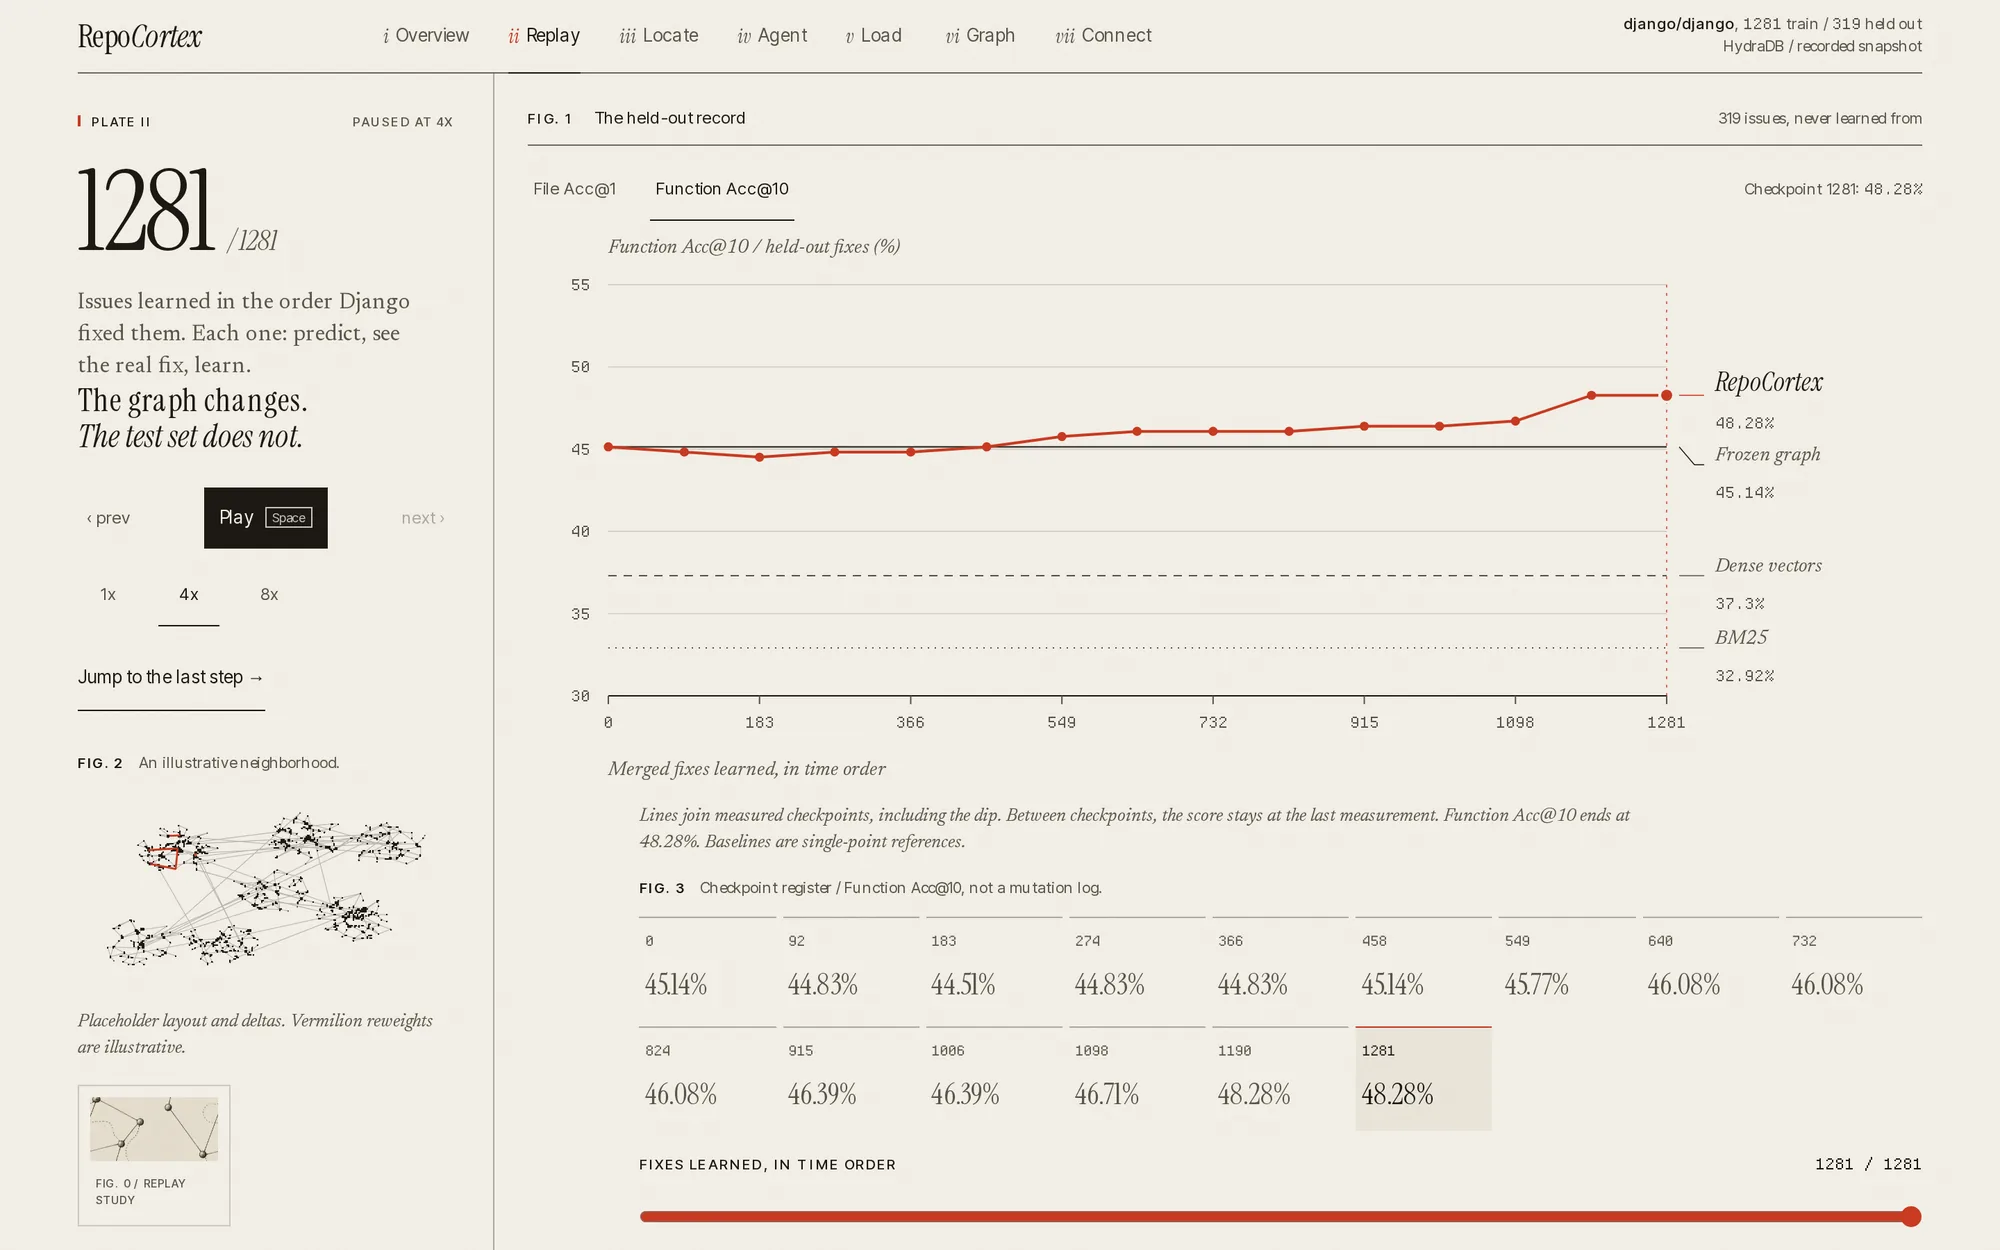
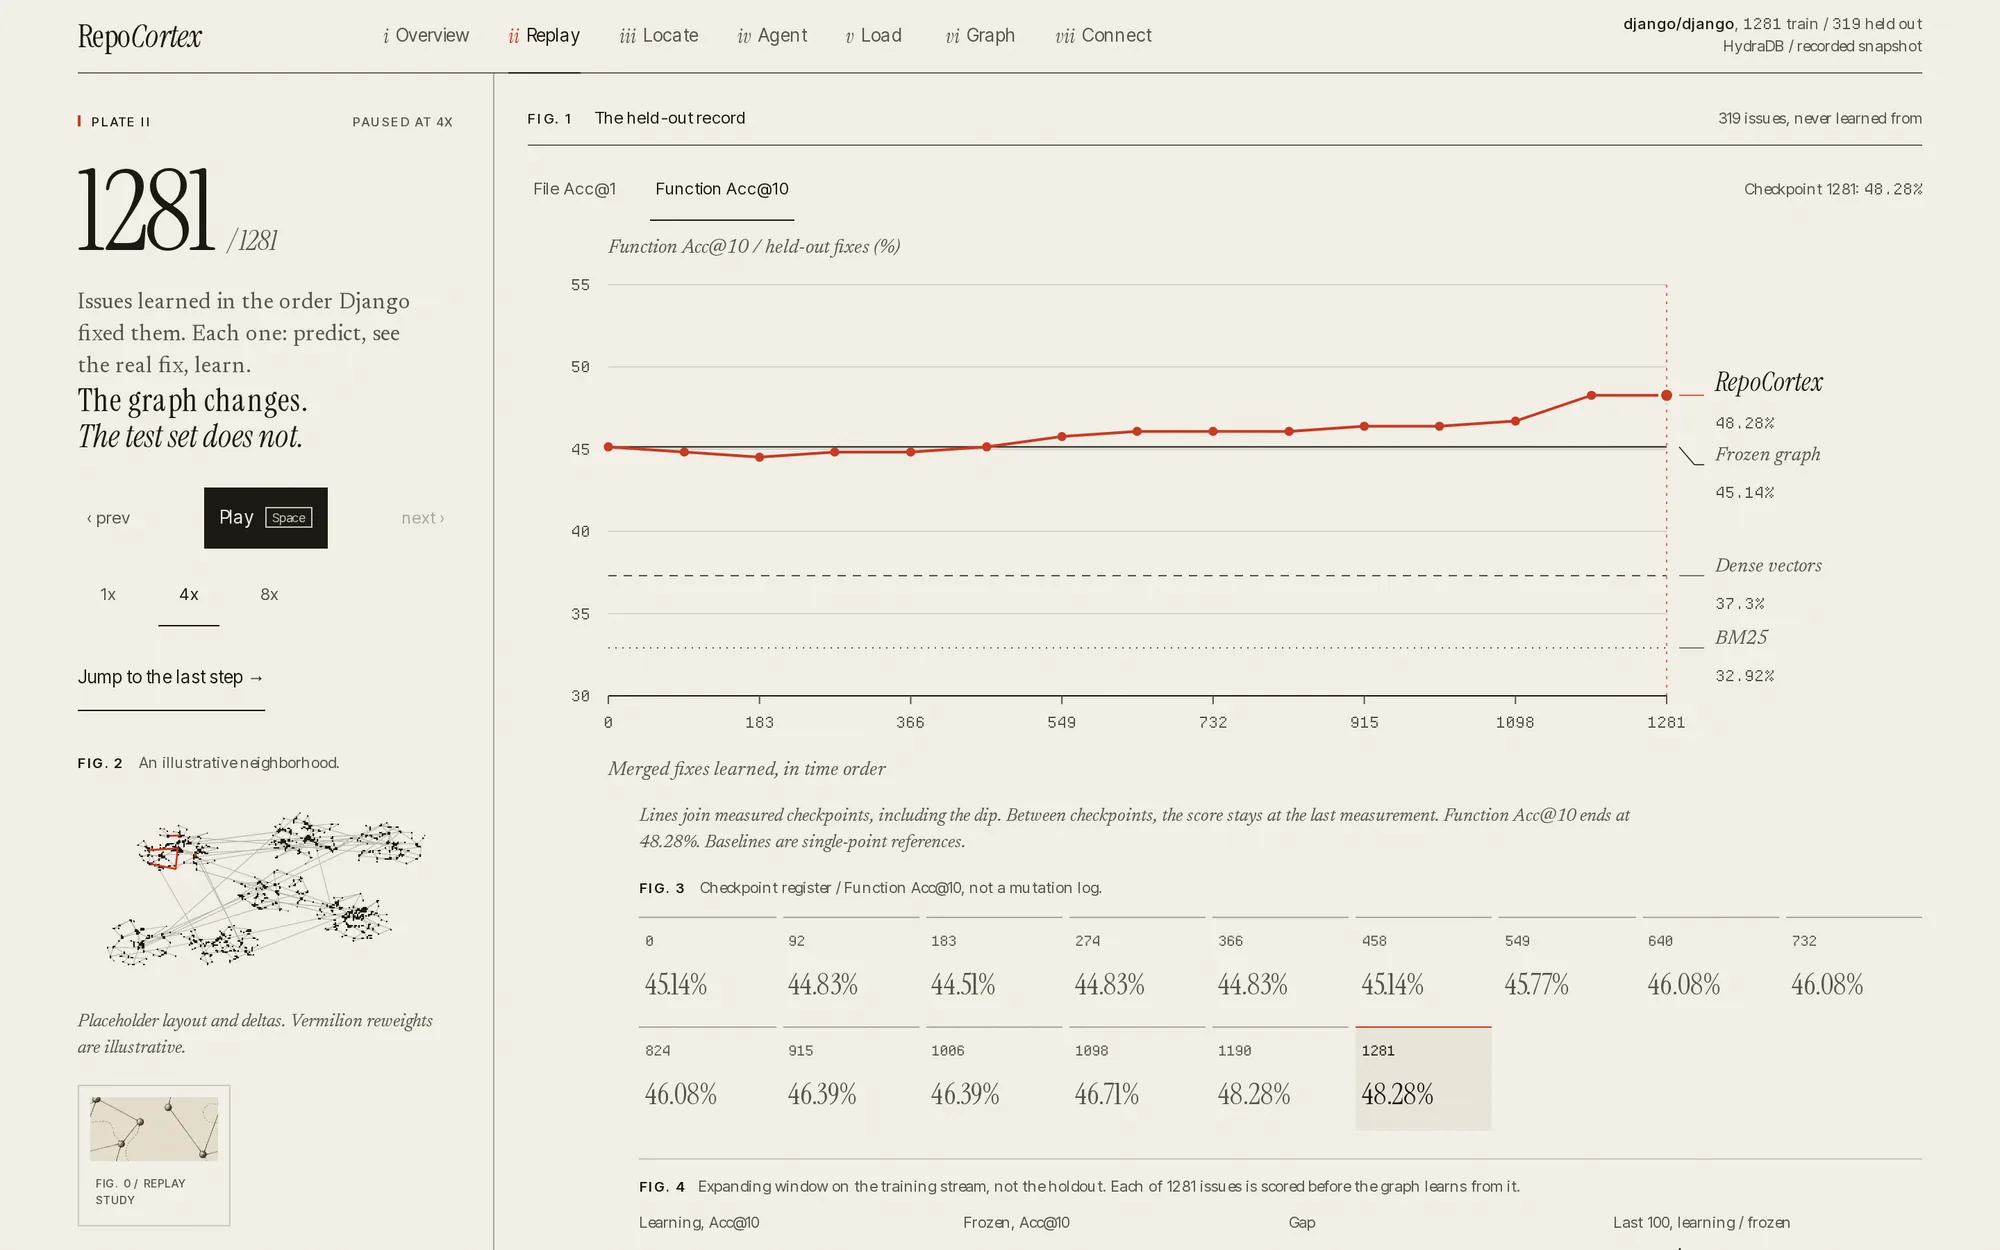
add the validation and expanding window curves to the readme

Changed region(s): [[0.31, 0.9048, 0.961, 0.9984], [0.899, 0.9048, 0.961, 0.936]]

diff --git a/README.md b/README.md
@@ -32,7 +32,16 @@ The same held-out set, scored at every learning checkpoint of the replay:
 | fn Acc@10 | 0.451 | 0.448 | 0.445 | 0.448 | 0.448 | 0.451 | 0.458 | 0.461 | 0.461 | 0.461 | 0.464 | 0.464 | 0.467 | 0.483 | 0.483 |
 | MRR | 0.402 | 0.405 | 0.410 | 0.409 | 0.406 | 0.403 | 0.410 | 0.408 | 0.408 | 0.412 | 0.414 | 0.415 | 0.412 | 0.424 | 0.430 |
 
-These held-out numbers match the previous replay. A search for a stronger memory signal was run first, on the last 256 training issues only, and every change lost, so the holdout was scored once with the same settings.
+These held-out numbers did not move in the latest pass. A search for a stronger memory signal ran first on the training side only, every change lost, and the holdout was scored once with the same settings.
+
+Two curves that rise earlier. **Neither is the holdout**, and they are labeled that way everywhere:
+
+| curve (not the holdout) | start | end | change |
+|---|---:|---:|---:|
+| Validation slice, newest 256 training issues, fn Acc@10 | 0.414 | 0.449 (peak 0.453 at step 879) | +0.035 |
+| Validation slice, MRR | 0.380 | 0.414 | +0.034 |
+| Expanding window, 1281 training issues, fn Acc@10: learning vs frozen | frozen 0.439 | learning 0.472 | +3.4 points |
+| Expanding window, MRR: learning vs frozen | frozen 0.391 | learning 0.424 | +3.3 points |
 
 Coding agent (30 held-out bugs, Claude Sonnet 5.5): **16% fewer input tokens** with the RepoCortex MCP tool available, **27% fewer** when told to call it first, same accuracy.
 
@@ -42,8 +51,8 @@ Coding agent (30 held-out bugs, Claude Sonnet 5.5): **16% fewer input tokens** w
 |---|---|---|
 | Beats a plain vector store | fn Acc@10 **0.483** vs dense **0.373** vs BM25 **0.329**. Paired gap over dense: **+11.0 points** [7.5, 14.4] | [`results/baselines.json`](results/baselines.json) |
 | Learning moves the held-out score | fn Acc@10 0.451 at step 0 to 0.483 after 1281 fixes. Paired lift **+3.1 points** [0.9, 5.6], MRR 0.402 to 0.430 | [`results/curve.json`](results/curve.json), [`results/curve.png`](results/curve.png) |
-| The nearer future rises earlier | Validation Acc@10 0.414 to 0.453 by fit step 879, MRR 0.380 to 0.414. Not the holdout | [`results/curve.png`](results/curve.png), [`results/tuning.json`](results/tuning.json) |
-| Online learning holds up as bugs get harder | Expanding-window gap vs a frozen replay: **+3.4 points** Acc@10 and **+3.3 points** MRR after 1281 training issues | [`results/curve.json`](results/curve.json) |
+| The nearer future rises earlier | Validation fn Acc@10 0.414 to 0.449 (peak 0.453), MRR 0.380 to 0.414. Not the holdout | [`results/curve.json`](results/curve.json), [`results/tuning.json`](results/tuning.json) |
+| Memory holds up as bugs get harder | Expanding window vs a frozen replay: **+3.4 points** fn Acc@10 and **+3.3 points** MRR after 1281 issues. Not the holdout | [`results/curve.json`](results/curve.json) |
 | Agents do less work with it | **16%** fewer input tokens, **27%** when told to call it first, 22% lower cost | [`results/agent_eval/`](results/agent_eval/README.md) |
 | The tool alone is a strong first guess | `locate_bug` top-1 function **0.47** vs the Claude agent's **0.40** (14 vs 12 of 30), under a second, no model call | [`results/agent_eval/tool_only.json`](results/agent_eval/tool_only.json) |
 | It is fast enough to sit in an agent loop | p95 **44 ms**, p50 21 ms, 63 req/s, **0 failures** over 1,251 requests | [`results/loadtest.json`](results/loadtest.json) |
@@ -158,34 +167,32 @@ Storing fixes and reweighting does almost all of the lift. Shortcuts add a littl
 
 ## Where the curve rises
 
-The held-out line above sits on the frozen score until about step 500, then gains about 3 points. That is real, and it is late. Two other curves rise earlier. Neither one is the holdout.
+<img src="results/curve.png" alt="RepoCortex curves: held-out accuracy and MRR by replay step with dense and BM25 baselines, the expanding-window learning and frozen series, and the validation slice" width="900">
 
-**Why a stronger memory weight does not help.** Held-out issues often look like an older ticket and still name a different function. By step 100, 43% of the holdout has a past fix with cosine at least 0.55, and that neighbor shares a gold function 3.5% of the time. At the end of training the nearest fix is right 18.5% of the time, and some neighbor above 0.55 is right 34.5% of the time. Copying the neighbor's functions early mostly copies the wrong function. The full table is [`results/diagnosis.json`](results/diagnosis.json). It was not used to pick settings.
+The held-out line sits on the frozen score until about step 500, then gains about 3 points. That is real, and it is late.
 
-The search scored the newest 256 training issues after replaying only the older 1,025. The rule was fixed first: maximize `0.65 * final validation MRR + 0.35 * midpoint validation MRR`, and keep a change only when that score beats the current one by more than 0.01 without dropping validation Acc@10 by more than 0.02. The grid covered memory weight, similarity threshold, neighbor count, sum versus max, file and module priors, recency, credit decay, earlier shortcuts, and a gate that lets memory rerank only functions the report already ranked highly. The published settings scored 0.407. The nearest challenger scored 0.413. Weight 0.40 dropped validation MRR to about 0.29 to 0.36. Nothing cleared the bar. The log is [`results/tuning.json`](results/tuning.json).
+**Why the curve starts late.** Early on, a held-out bug often looks like an older ticket and still names a different function. By step 100, 42.6% of the holdout already has a past fix with cosine similarity of at least 0.55, but that nearest neighbor shares a gold function only 3.5% of the time. By the end of training the nearest fix is right 18.5% of the time, and some neighbor above 0.55 is right 34.5% of the time. Copying the neighbor's functions early mostly copies the wrong function, so a stronger memory weight hurts before it helps. Source: [`results/diagnosis.json`](results/diagnosis.json). It was not used to pick settings.
 
-**Validation slice, the newest 20% of training.** Not the 319 held-out issues.
+**The settings search.** It replayed the older 1025 training issues and scored the newest 256, never the holdout. The rule was fixed first: maximize `0.65 * final validation MRR + 0.35 * midpoint validation MRR`, and keep a change only if it beats the current score by more than 0.01 without losing more than 0.02 validation Acc@10. The grid covered memory weight, similarity threshold, neighbor count, sum vs max, file and module priors, recency, credit decay, earlier shortcuts, and a rerank-only memory gate. The published settings scored 0.407, the best challenger 0.413. Nothing cleared the bar. Log: [`results/tuning.json`](results/tuning.json).
+
+**Validation slice, the newest 256 training issues. Not the holdout.**
 
 | fit issues | 0 | 146 | 293 | 439 | 586 | 732 | 879 | 1025 |
 |---|---:|---:|---:|---:|---:|---:|---:|---:|
 | fn Acc@10 | 0.414 | 0.418 | 0.418 | 0.426 | 0.434 | 0.445 | 0.453 | 0.449 |
 | MRR | 0.380 | 0.380 | 0.389 | 0.389 | 0.394 | 0.399 | 0.407 | 0.414 |
 
-Acc@10 is up about four points by step 879, then dips 0.4 points. MRR moves from 0.380 to 0.414, with one small dip between step 293 and step 439. This is the bottom row of [`results/curve.png`](results/curve.png).
-
-**Expanding window on the training stream.** Each training issue is scored before the operators see it. The same issues are scored with learning off. Both lines climb over the first few hundred issues, so that early climb is not by itself learning. After that, learning stays up and the frozen line falls.
+**Expanding window on the training stream. Not the holdout.** Each training issue is scored before the operators see it, and the same issues are scored with learning off. Both lines climb over the first few hundred issues, so that early climb is not learning by itself. After that, learning stays up and the frozen line falls.
 
 | issues seen | learning Acc@10 | frozen Acc@10 | learning MRR | frozen MRR |
 |---:|---:|---:|---:|---:|
 | 100 | 0.460 | 0.450 | 0.383 | 0.376 |
-| 400 | 0.500 | 0.482 | 0.434 | 0.411 |
+| 400 | 0.500 | 0.482 | 0.434 | 0.412 |
 | 1281 | 0.472 | 0.439 | 0.424 | 0.391 |
 
-The gap at the end is about +3.4 points of Acc@10 and +3.3 points of MRR. The rolling window of 100 says the same thing: learning scores 0.460 on the first 100 and 0.460 on the last 100, while the frozen ranker falls from 0.450 to 0.410. Later training issues are harder. Memory is what holds the rate.
+The rolling window of 100 says the same thing: learning scores 0.460 on the first 100 and 0.460 on the last 100, while the frozen ranker falls from 0.450 to 0.410. Later issues are harder, and memory is what holds the rate.
 
-**Seen module versus unseen module.** A holdout issue is seen when one of its gold functions sits in a module a training fix already touched. Module means the first two path parts. By step 92, 315 of 319 holdout issues are already in a seen module. Three are still unseen at the end, which is too few to read (Acc@10 0.333 against 0.484 on the other 316). The flat holdout curve is not an unseen-module problem.
-
-Seen file is the split that moves. Membership changes as more files are observed, so this is not one fixed cohort. Acc@10 on issues whose file was already fixed goes from 0.359 at step 92 (145 issues) to 0.456 at step 1281 (296 issues). The unseen-file rate stays high while the count shrinks from 174 to 23, which means the files that remain unseen are ones the frozen ranker already hits.
+**Seen file vs unseen file.** On held-out issues whose file a training fix already touched, fn Acc@10 goes from 0.359 at step 92 (145 issues) to 0.456 at step 1281 (296 issues). Membership grows as files are observed, so this is not one fixed cohort. The unseen-file group shrinks from 174 to 23 issues, and the ones left are mostly files the frozen ranker already hits. Module-level splits say little: 315 of 319 held-out issues are in a seen module by step 92, and only 3 are still unseen at the end.
 
 ## Provenance
 
@@ -239,7 +246,7 @@ Accuracy is about the same with and without the tool. The difference is one bug 
 
 ## Dashboard
 
-The web app in [`web/`](web/) reads `web/public/data/curve.json`, a copy of this run's measured curve. `web/public/data/snapshots.json` is still an illustrative layout fixture, not the replay log. Run it with `cd web && npm install && npm run dev`.
+The web app in [`web/`](web/) reads copies of the measured `results/` files from `web/public/data/`. Run it with `cd web && npm install && npm run dev`.
 
 | | |
 |---|---|
@@ -260,7 +267,7 @@ Locust, 8 concurrent users for 20 seconds against `POST /locate`: 1,251 requests
 - **Metrics.** fn Acc@k is strict: every gold function must be in the top k. File Acc@1 is the top file. MRR is the reciprocal rank of the first gold function, 0 outside the top 10.
 - **Most of the gap over dense is there at step 0.** The frozen graph already scores 0.451. Learning adds +3.1 points of fn Acc@10 [0.9, 5.6] and +0.026 MRR. fn Acc@5 lift is not significant (its interval starts at -0.009).
 - **The step 0 ranker blends BM25 into dense.** We report dense and BM25 alone, but not dense + BM25 without the graph hop.
-- **The held-out curve is late.** It sits on the frozen score until about 500 fixes, then climbs about 3 points. Stronger memory settings lost on the validation slice, so that shape was not forced. The validation curve and the expanding-window gap, above, are the rises that show up earlier. See [Where the curve rises](#where-the-curve-rises).
+- **The held-out curve is late.** It sits on the frozen score until about 500 fixes, then climbs about 3 points. Stronger memory settings lost on the validation slice, so the shape was not forced. The validation and expanding-window curves rise earlier, and neither is the holdout. See [Where the curve rises](#where-the-curve-rises).
 - **One repository.** Everything here is Django. A second repo was not replayed.
 - **The agent eval is small.** 30 bugs, one model, one run each.
 - **Hyperparameters** (BM25 blend, graph mix) were picked on the last 40 training issues of a smaller split, never on the holdout.

diff --git a/SUBMISSION.md b/SUBMISSION.md
@@ -43,7 +43,8 @@ Bug location depends on relations, not text: past fixes of similar tickets, co-c
 Replay of 1281 real Django fixes in commit order, scored on the 319 newest fixes it never trained on.
 
 - Function Acc@10: BM25 0.329, dense 0.373, RepoCortex step 0 0.451, RepoCortex after learning **0.483**.
-- Learning lift on the same held-out set: +3.1 points of function Acc@10 [0.9, 5.6], MRR 0.402 to 0.430. The curve is flat for about 500 fixes, then climbs. Storing fixes and reweighting edges do most of it. The ablation is in the README.
+- Learning lift on the same held-out set: +3.1 points of function Acc@10 [0.9, 5.6], MRR 0.402 to 0.430. The held-out curve is flat for about 500 fixes, then climbs: early on, similar past tickets usually name a different function (at step 100 the nearest past fix shares a gold function 3.5% of the time), so memory only pays off once it has enough history. Storing fixes and reweighting edges do most of the lift. The ablation is in the README.
+- Two curves that rise earlier, both outside the holdout: on a validation slice of the newest 256 training issues, fn Acc@10 goes 0.414 to 0.449 (peak 0.453) and MRR 0.380 to 0.414. Scoring each training issue before learning from it, the learning graph ends +3.4 points of Acc@10 and +3.3 points of MRR above a frozen replay (0.472 vs 0.439). Over the last 100 issues learning holds 0.460 while frozen falls to 0.410.
 - Claude Sonnet 5.5 agent on 30 held-out bugs: 16% fewer input tokens with the tool, 27% fewer and 22% lower cost when told to call it first. Accuracy about the same.
 - `locate_bug` alone gets the top-1 function 0.47 of the time, the agent alone 0.40. Under a second, no model call.
 - Load test: 1,251 requests, 0 failures, p95 44 ms, 63 requests per second.
